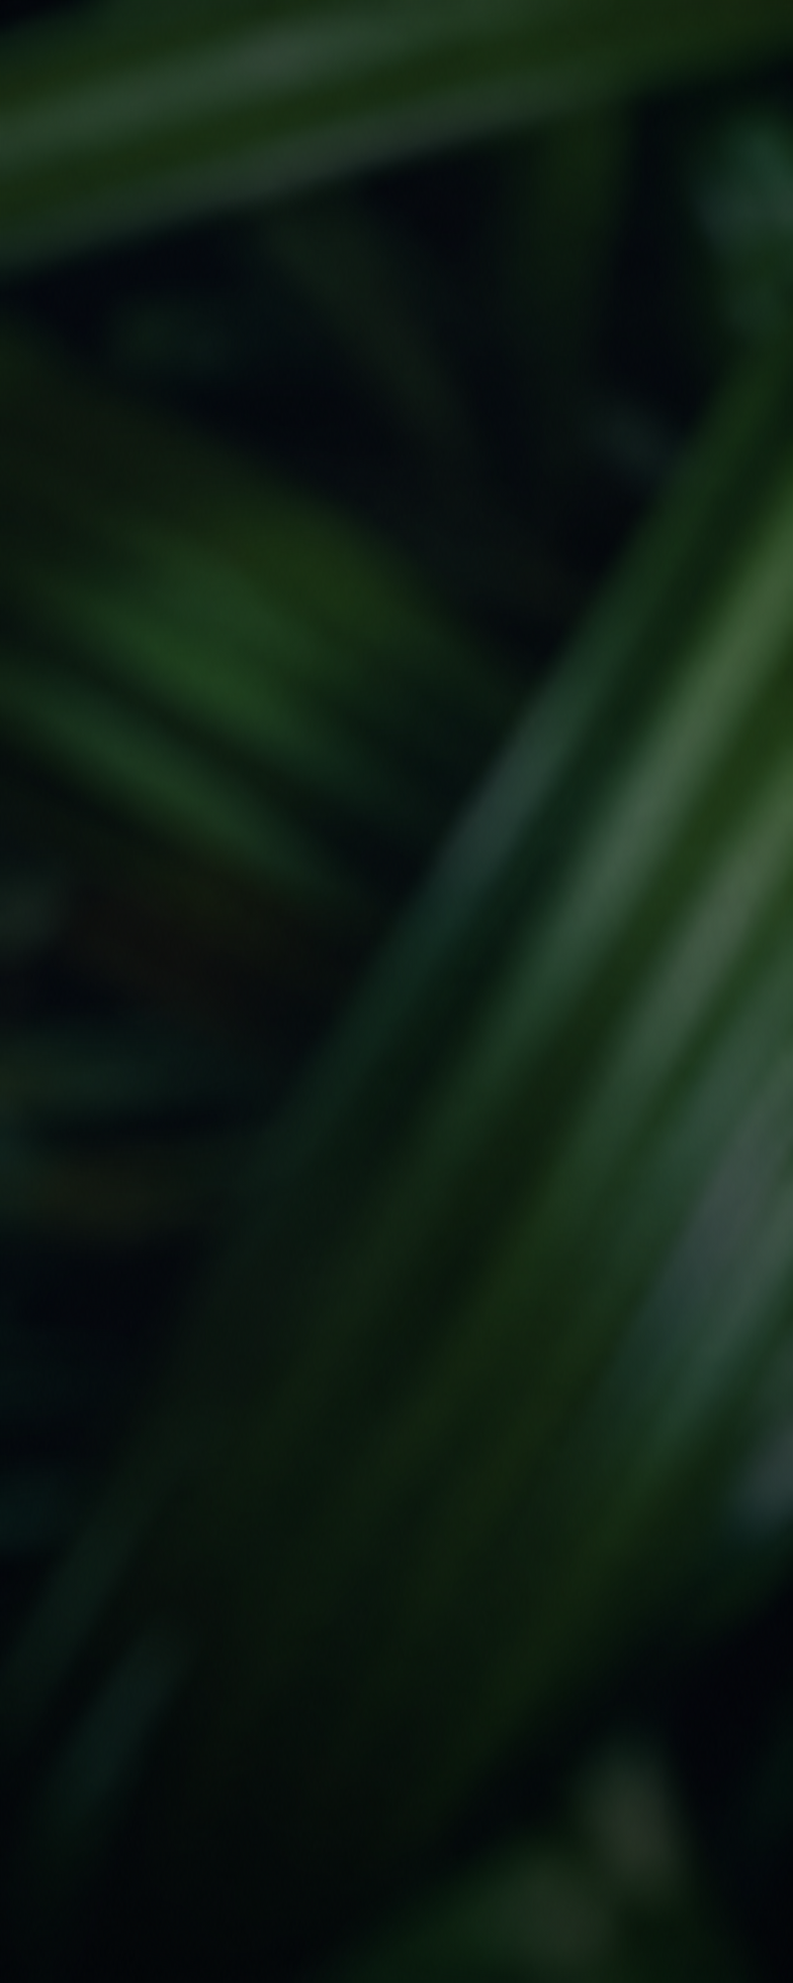
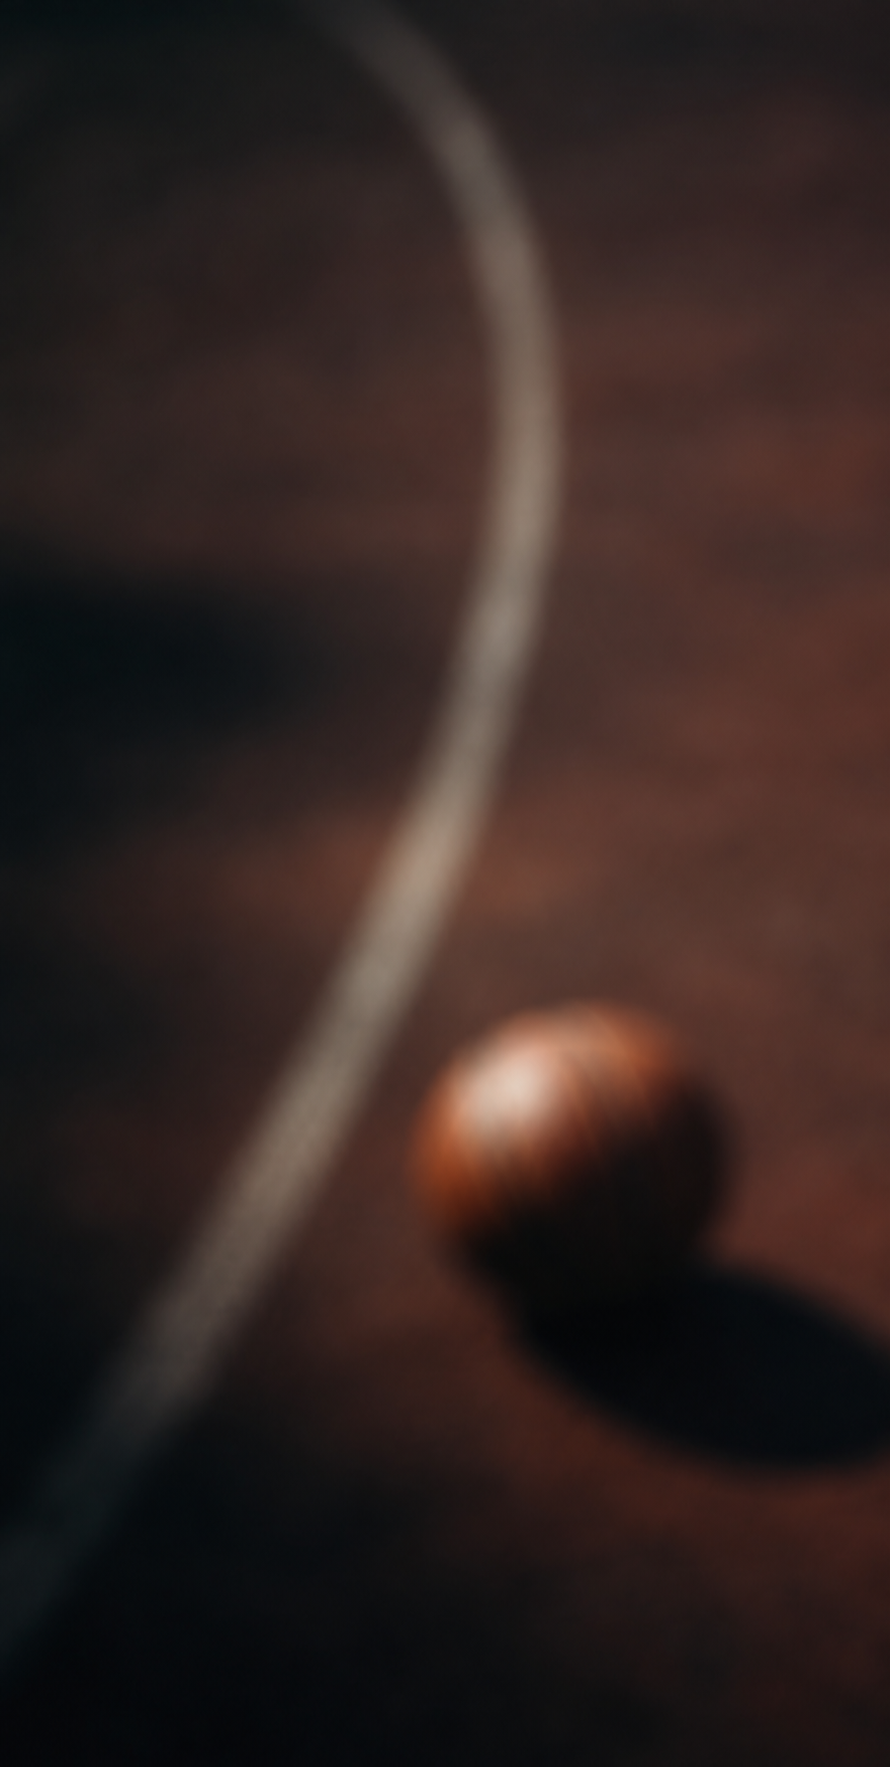
style: adiciona fundo

diff --git a/src/app/feats/home/hero/hero.css b/src/app/feats/home/hero/hero.css
@@ -1,14 +1,14 @@
 .hero {
     position: relative;
-    width: 88%;
-    margin: 100px auto;
-    height: 460px;
-    border-radius: 10px;
+    width: 100%;
+    margin: auto;
+    height: 100vh;
     overflow: hidden;
     display: flex;
     align-items: center;
     justify-content: center;
     font-family: Arial, Helvetica, sans-serif;
+    box-shadow: 0px 30px 54px black;
 }
 
 .hero-video {
@@ -19,6 +19,7 @@
     height: 100%;
     object-fit: cover;
     z-index: 1;
+    
 
 }
 

diff --git a/src/app/components/header/header.css b/src/app/components/header/header.css
@@ -10,8 +10,8 @@
     align-items: center;
     padding: 0 40px;
     box-sizing: border-box;
-    background: #0505051c;
-    backdrop-filter: blur(10px);
+    background: #05050500;
+    /* backdrop-filter: blur(10px); */
     font-family: var(--fonte, sans-serif);
 }
 

diff --git a/src/app/feats/home/carrossel/carrossel.css b/src/app/feats/home/carrossel/carrossel.css
@@ -1,5 +1,6 @@
 .html {
-    margin-bottom: 100px;
+    margin-bottom: 150px;
+    margin-top: 100px;
 }
 
 .nav-carrossel nav {
